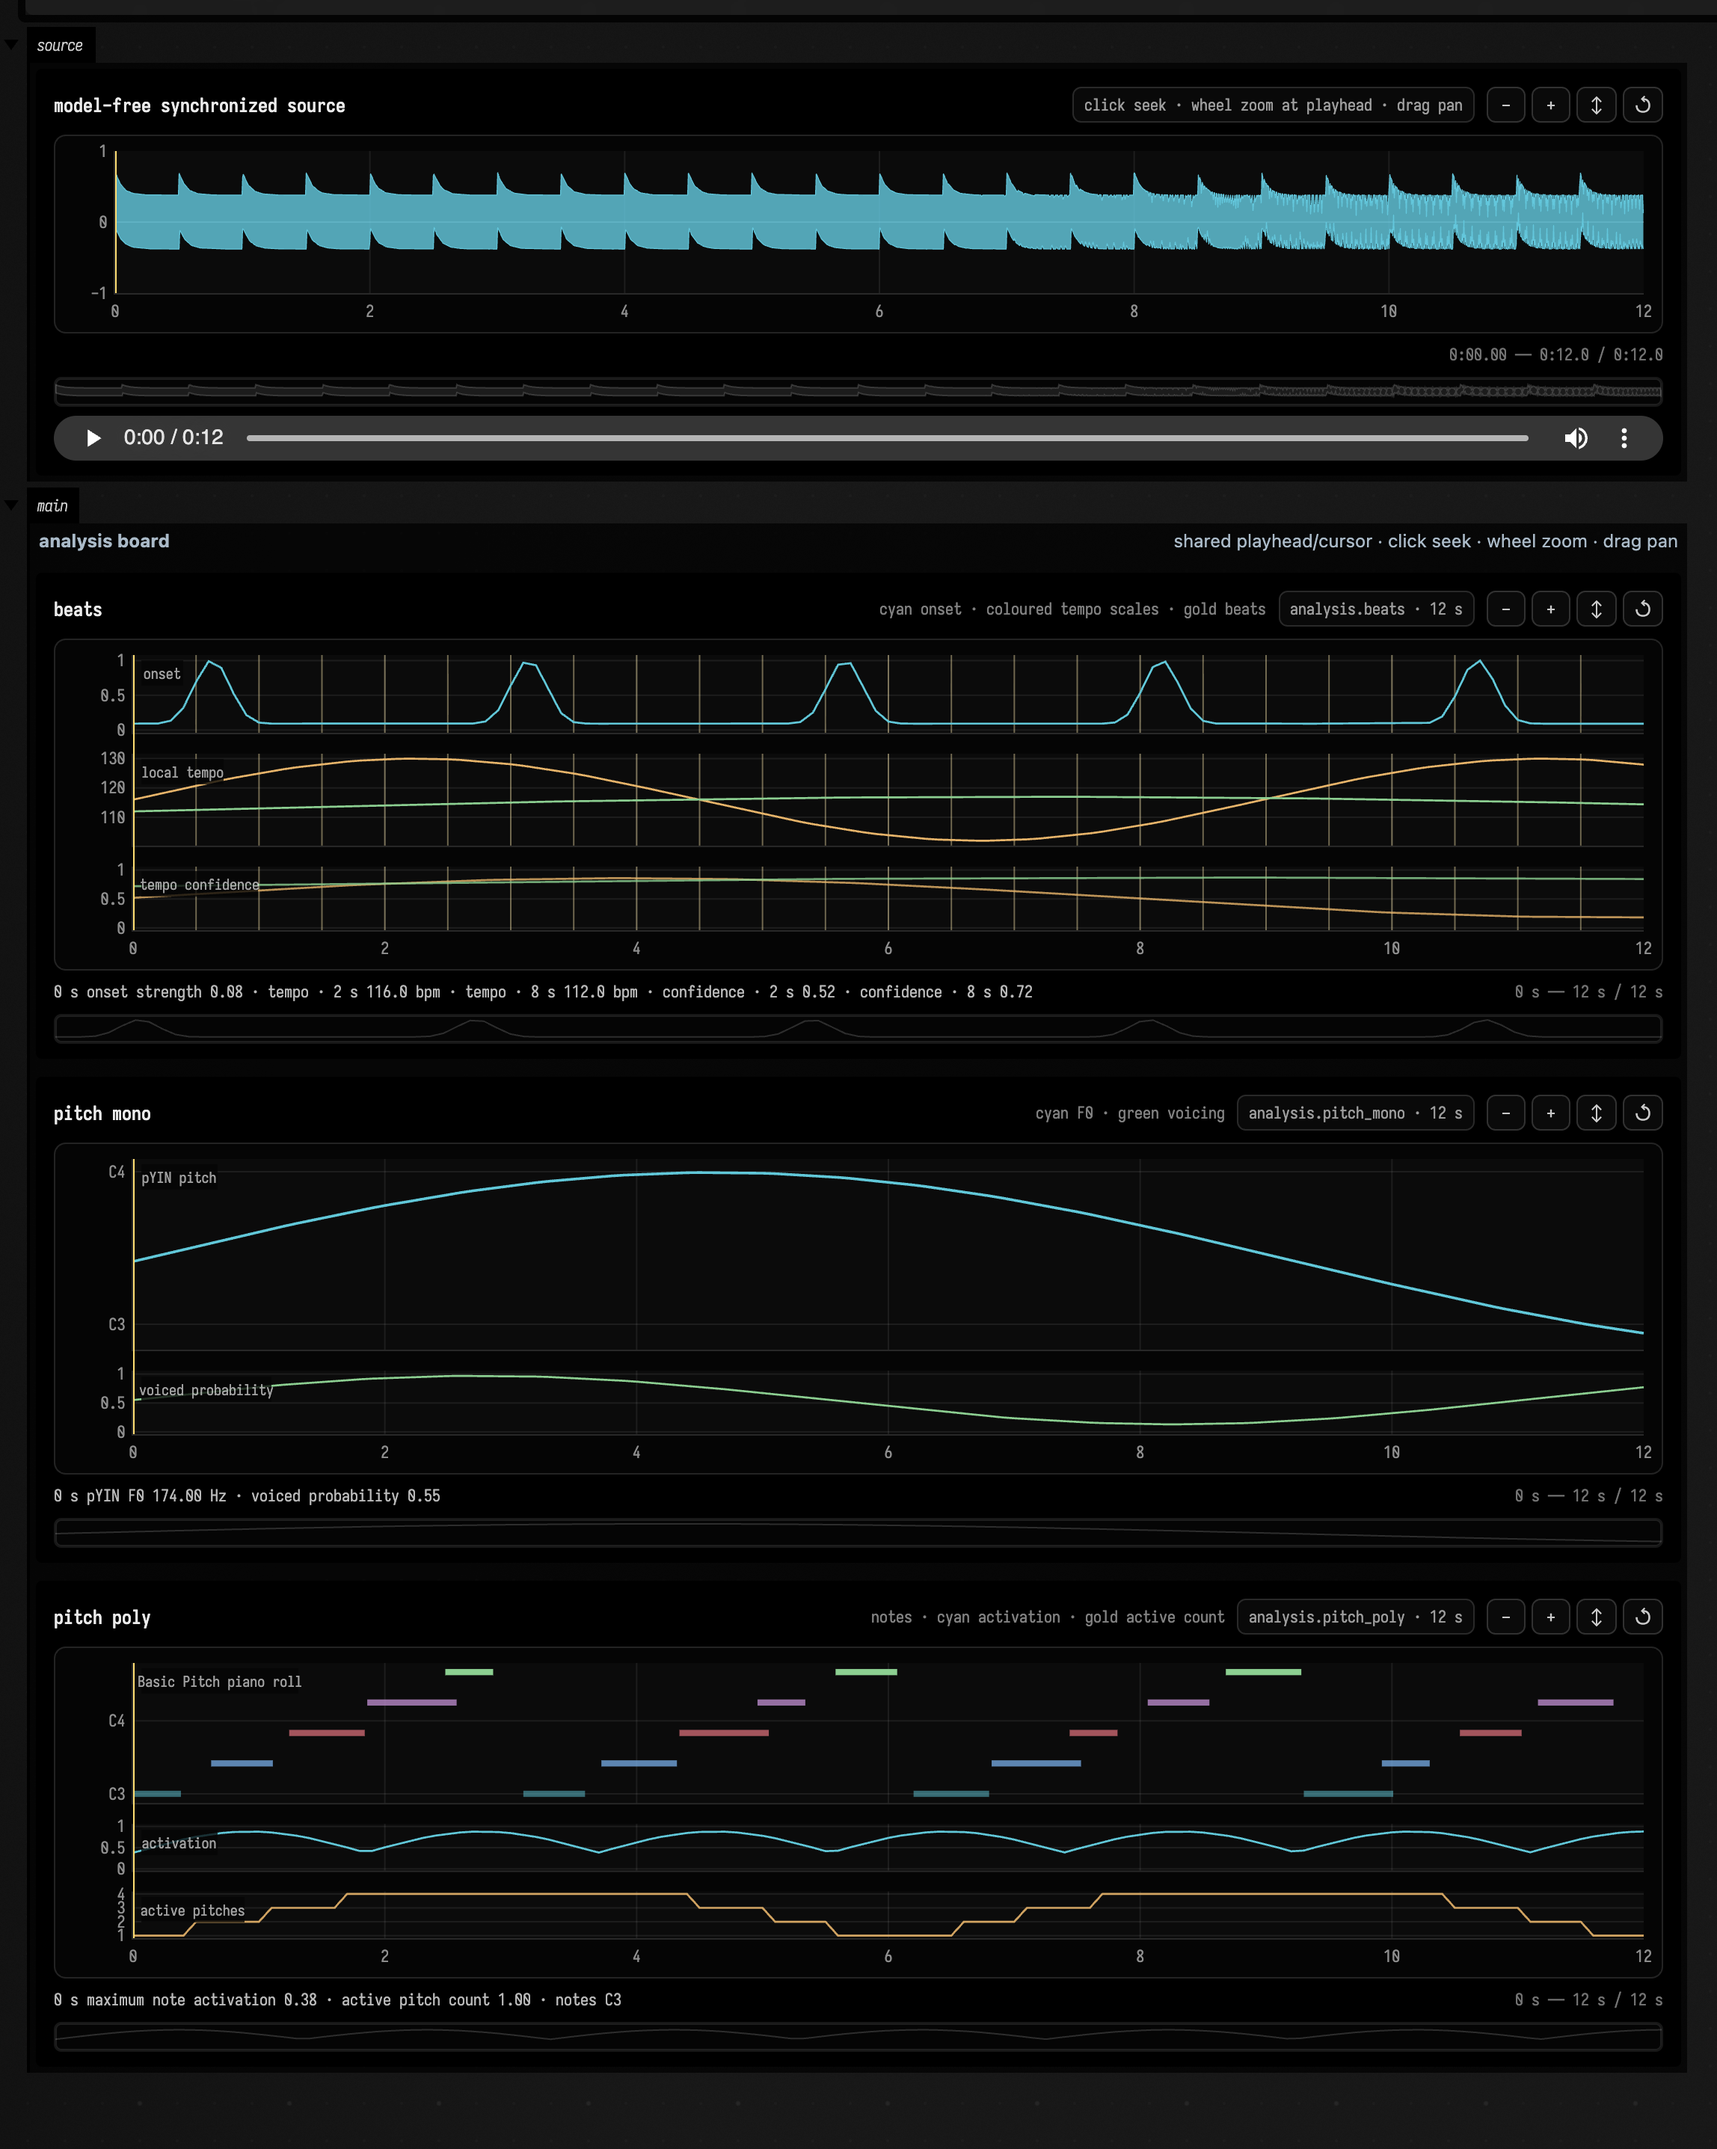
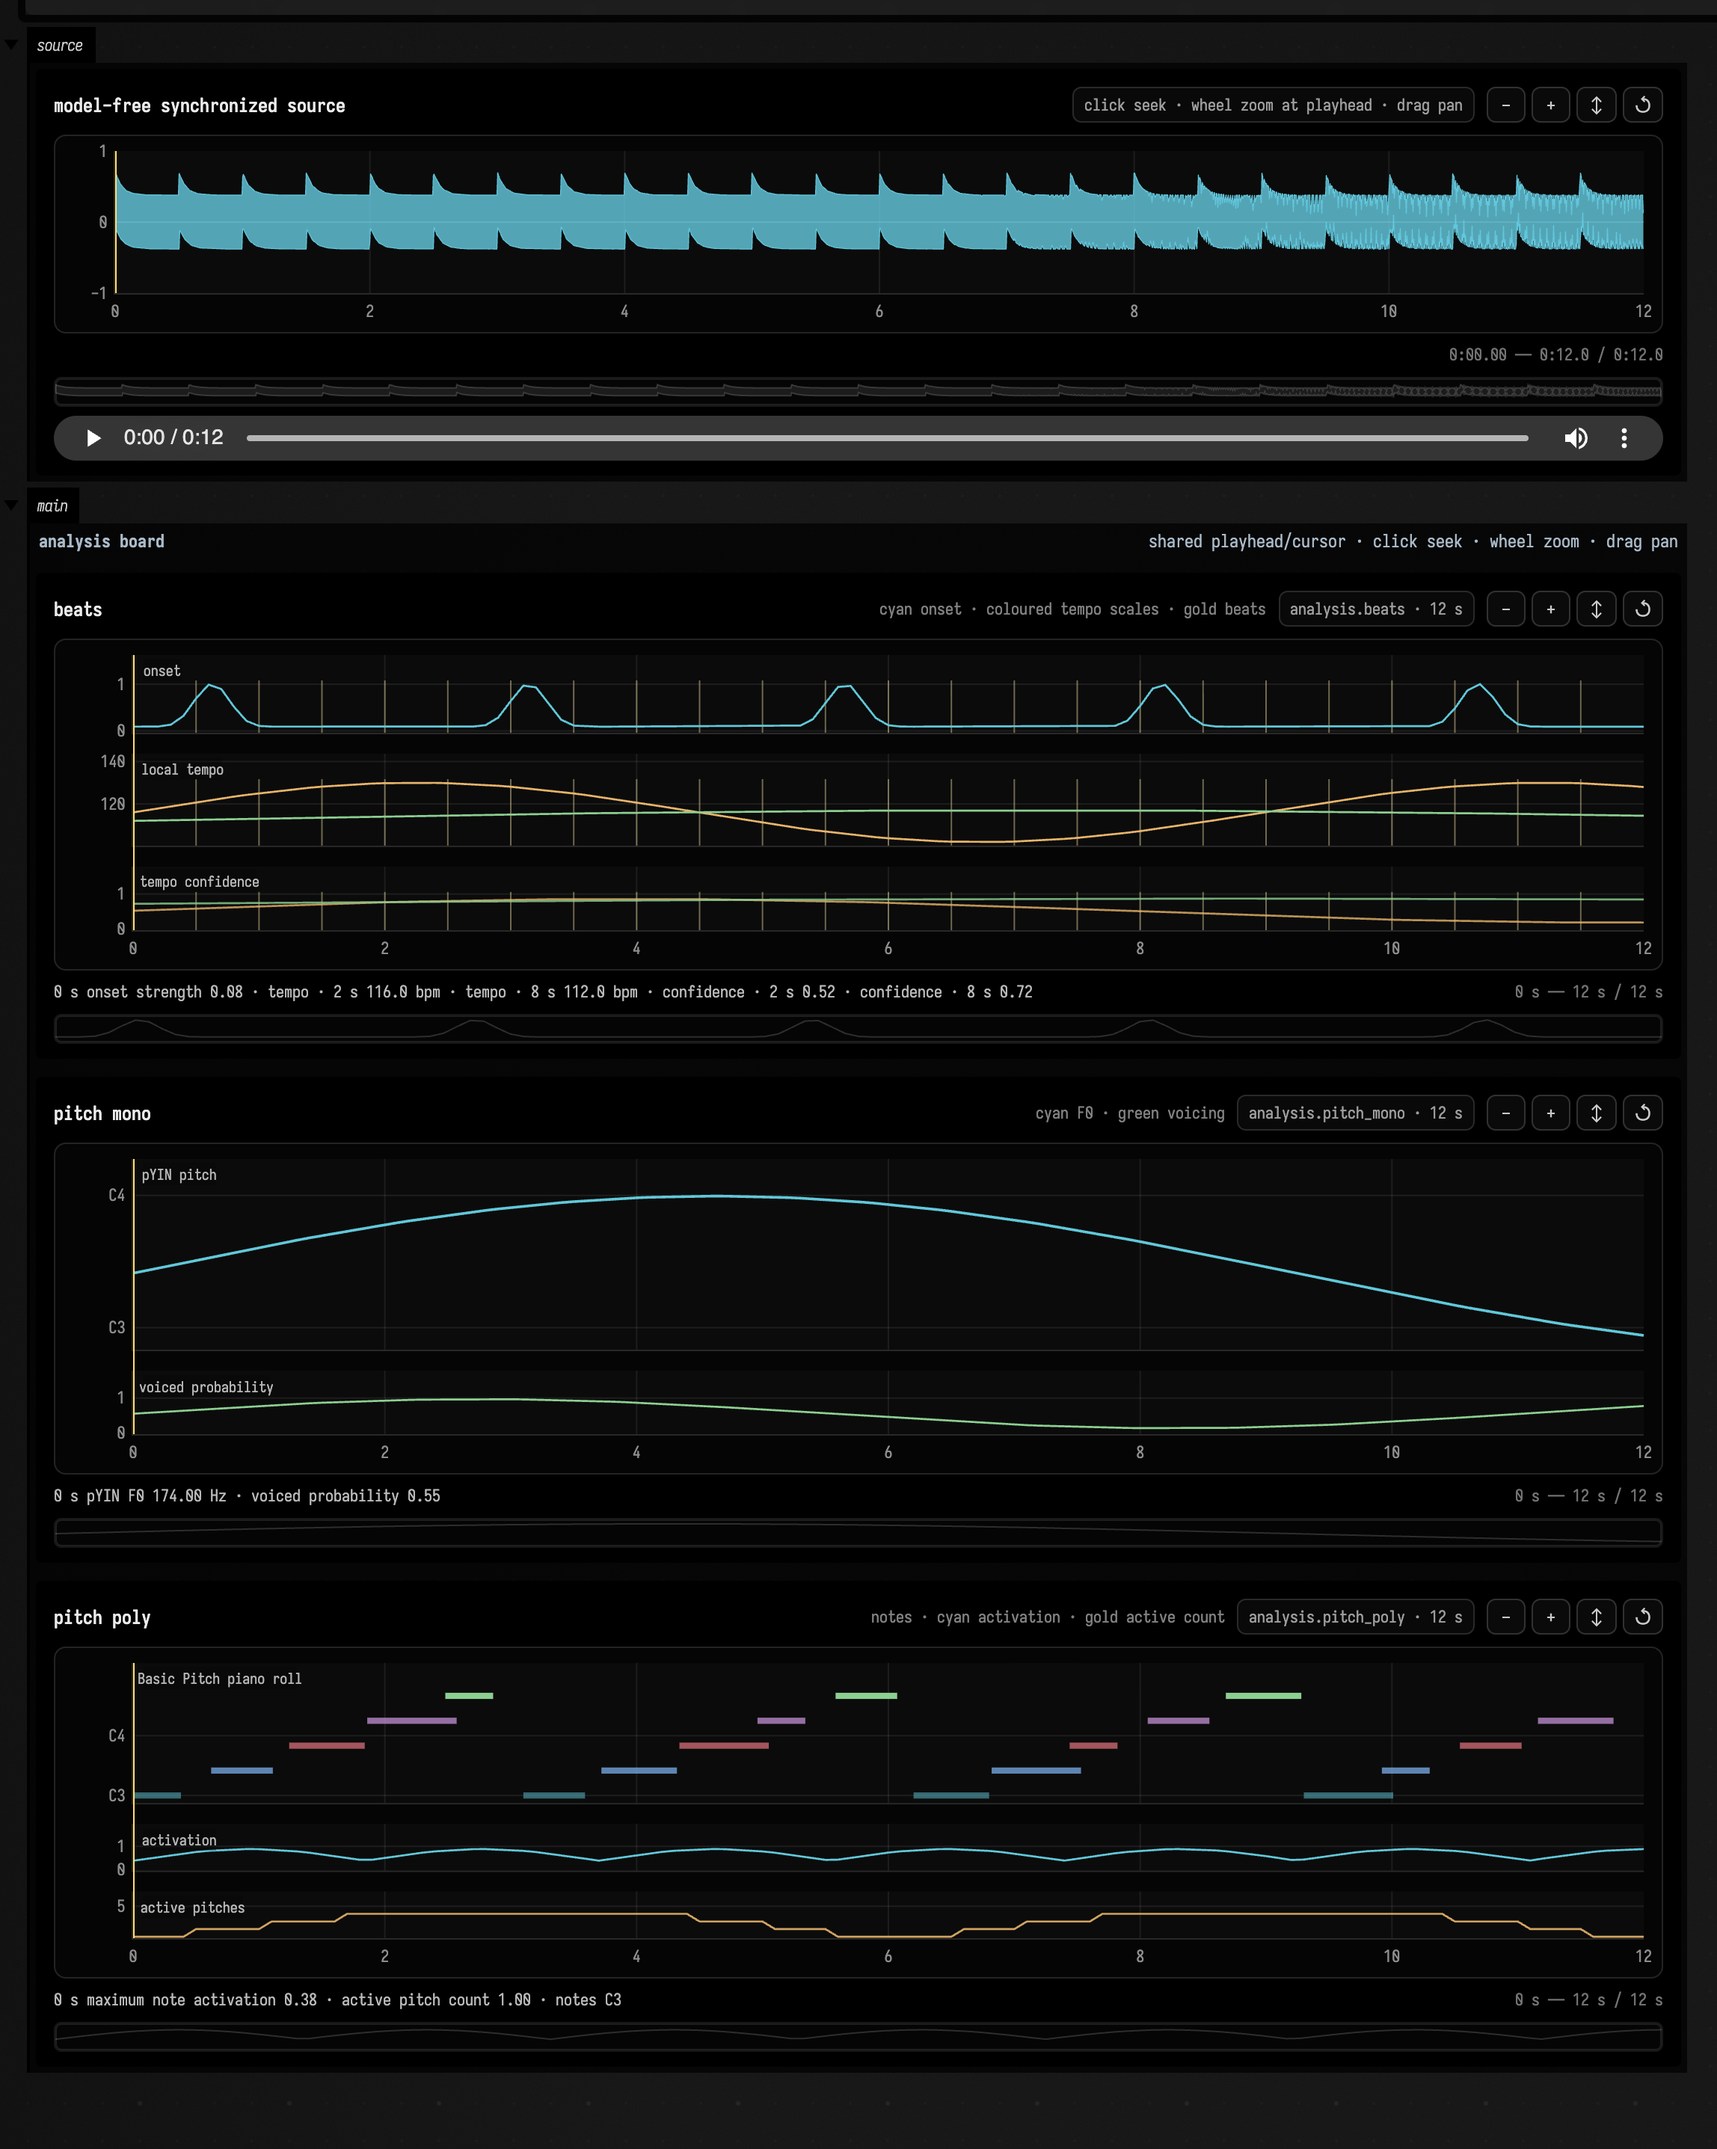
Time-axis viewer: lane labels over headroom, not over the data
Each labelled lane reserves a 17 px band above its data and pins its
label top-left inside it (6 px from the axis, 2 px from the lane top),
with a 28% backing instead of 78%. Auto-ticked lanes keep at least three
tick candidates so the tempo lane keeps its labels. Recaptured
audio_ai_analysis.md's synchronized_analysis.png.

--no-verify: declared generated-reference drift; inherited
ImpossibilityClaimContractTest failure on dev_docs/FN_INTERVAL.md:23.

diff --git a/src/commonMain/resources/signal-viewer.js b/src/commonMain/resources/signal-viewer.js
@@ -295,7 +295,11 @@
       uirevision: config.viewKey || 'signal', annotations: [], shapes: []};
     let top = 1;
     lanes.forEach((lane, i) => {
-      const suffix = i ? i + 1 : '', y0 = Math.max(0, top - usable * (lane.weight || 1) / weights), yr = yRanges[i] || [lane.minimum, lane.maximum];
+      const suffix = i ? i + 1 : '', y0 = Math.max(0, top - usable * (lane.weight || 1) / weights);
+      // A labelled lane gets a 17 px band of headroom above its data, so the label sits over empty
+      // plot rather than across the curve (Marc, analysis-board review).
+      const labelled = count > 1 || config.laneLabels, head = labelled ? Math.min(.45, 17 / Math.max(1, inner * (top - y0))) : 0;
+      const [r0, r1] = yRanges[i] || [lane.minimum, lane.maximum], yr = [r0, r1 + (r1 - r0) * head / (1 - head)];
       const secondary = colors.secondary ? colors.secondary : null;
       l['xaxis' + suffix] = {range: [start, start + span], autorange: false, anchor: 'y' + suffix, matches: i ? 'x' : undefined,
         showticklabels: i === count - 1, gridcolor: 'rgba(255,255,255,.075)', linecolor: 'rgba(255,255,255,.14)', ...tickGap, tickfont: axisFont,
@@ -304,12 +308,12 @@
       l['yaxis' + suffix] = {domain: [y0, top], range: yr, autorange: false, fixedrange: !(interactive && lane.yZoom),
         gridcolor: 'rgba(255,255,255,.075)', linecolor: 'rgba(255,255,255,.14)', ...tickGap, tickfont: axisFont, automargin: false, zeroline: false,
         // Padded analysis ranges get round auto ticks; a signal lane's own bounds are labelled exactly.
-        ...(lane.ticks ? {tickvals: lane.ticks.vals, ticktext: lane.ticks.text} : lane.yZoom ? {nticks: 7} : lane.autoTicks ? {nticks: clamp(Math.floor(inner * (top - y0) / 26), 2, 5)} :
+        ...(lane.ticks ? {tickvals: lane.ticks.vals, ticktext: lane.ticks.text} : lane.yZoom ? {nticks: 7} : lane.autoTicks ? {nticks: clamp(Math.floor(inner * (top - y0) / 26), 3, 5)} :
           {tickvals: [lane.minimum, (lane.minimum + lane.maximum) / 2, lane.maximum].map(v => Number(v.toPrecision(4)))}),
         title: lane.yTitle ? {text: esc(lane.yTitle), standoff: 10, font: {...axisFont, color: 'rgba(255,255,255,.72)'}} : undefined};
-      if (count > 1 || config.laneLabels) l.annotations.push({xref: 'paper', yref: 'paper', x: 0, y: top, xanchor: 'left', yanchor: 'top',
-        xshift: 5, yshift: -3, text: esc(lane.name), showarrow: false, font: {...axisFont, size: 10, color: 'rgba(255,255,255,.62)'},
-        bgcolor: 'rgba(5,5,5,.78)', borderpad: 2});
+      if (labelled) l.annotations.push({xref: 'paper', yref: 'paper', x: 0, y: top, xanchor: 'left', yanchor: 'top',
+        xshift: 6, yshift: -2, text: esc(lane.name), showarrow: false, font: {...axisFont, size: 10, color: 'rgba(255,255,255,.7)'},
+        bgcolor: 'rgba(5,5,5,.28)', borderpad: 1});
       top = y0 - gap;
     });
     l.shapes = zeroShapes(lanes);
